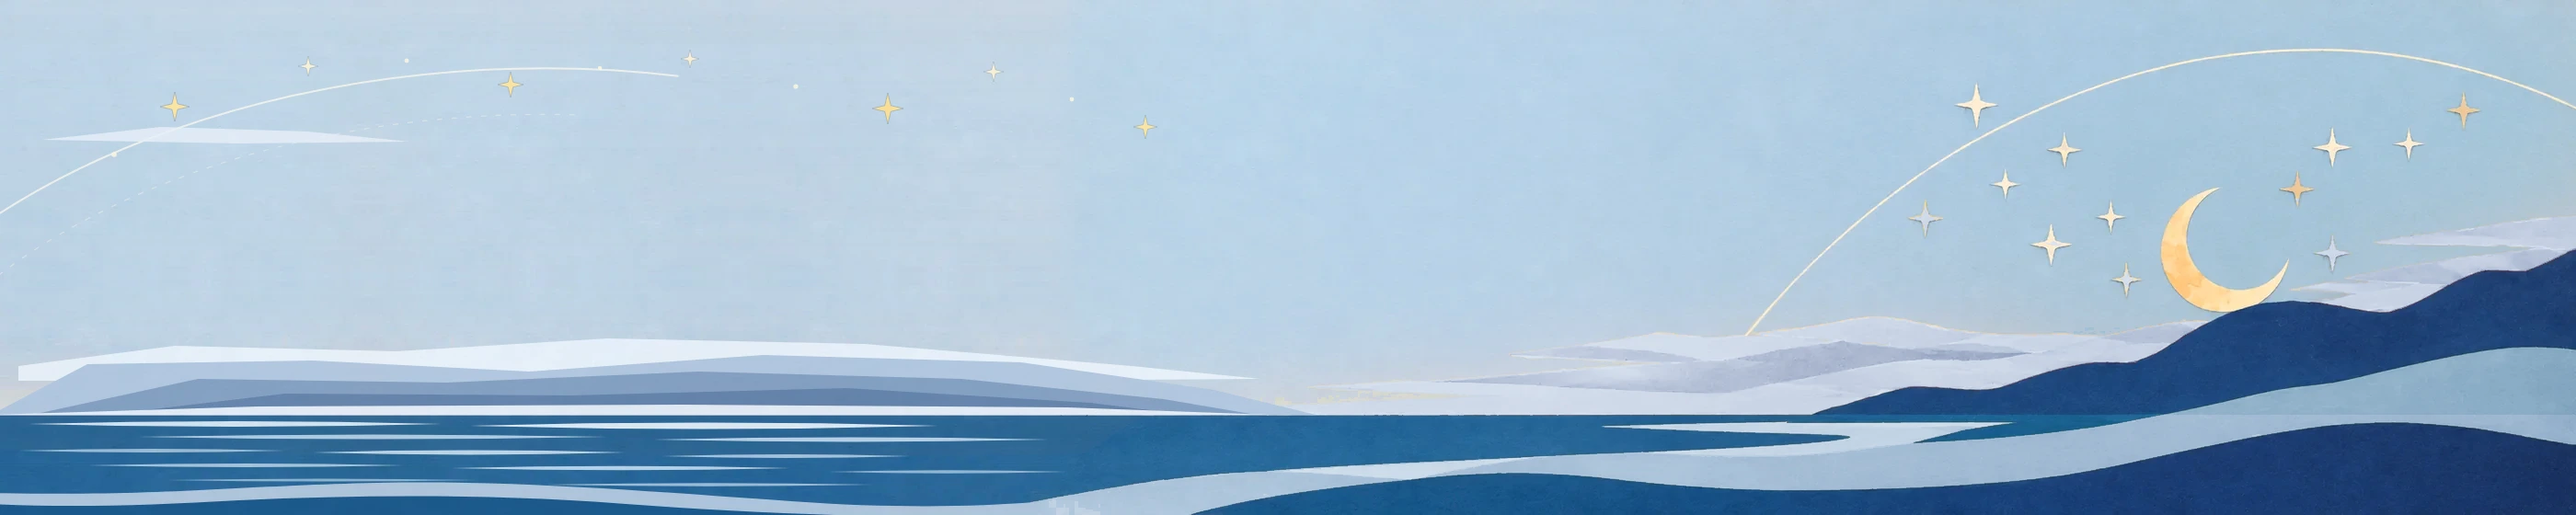
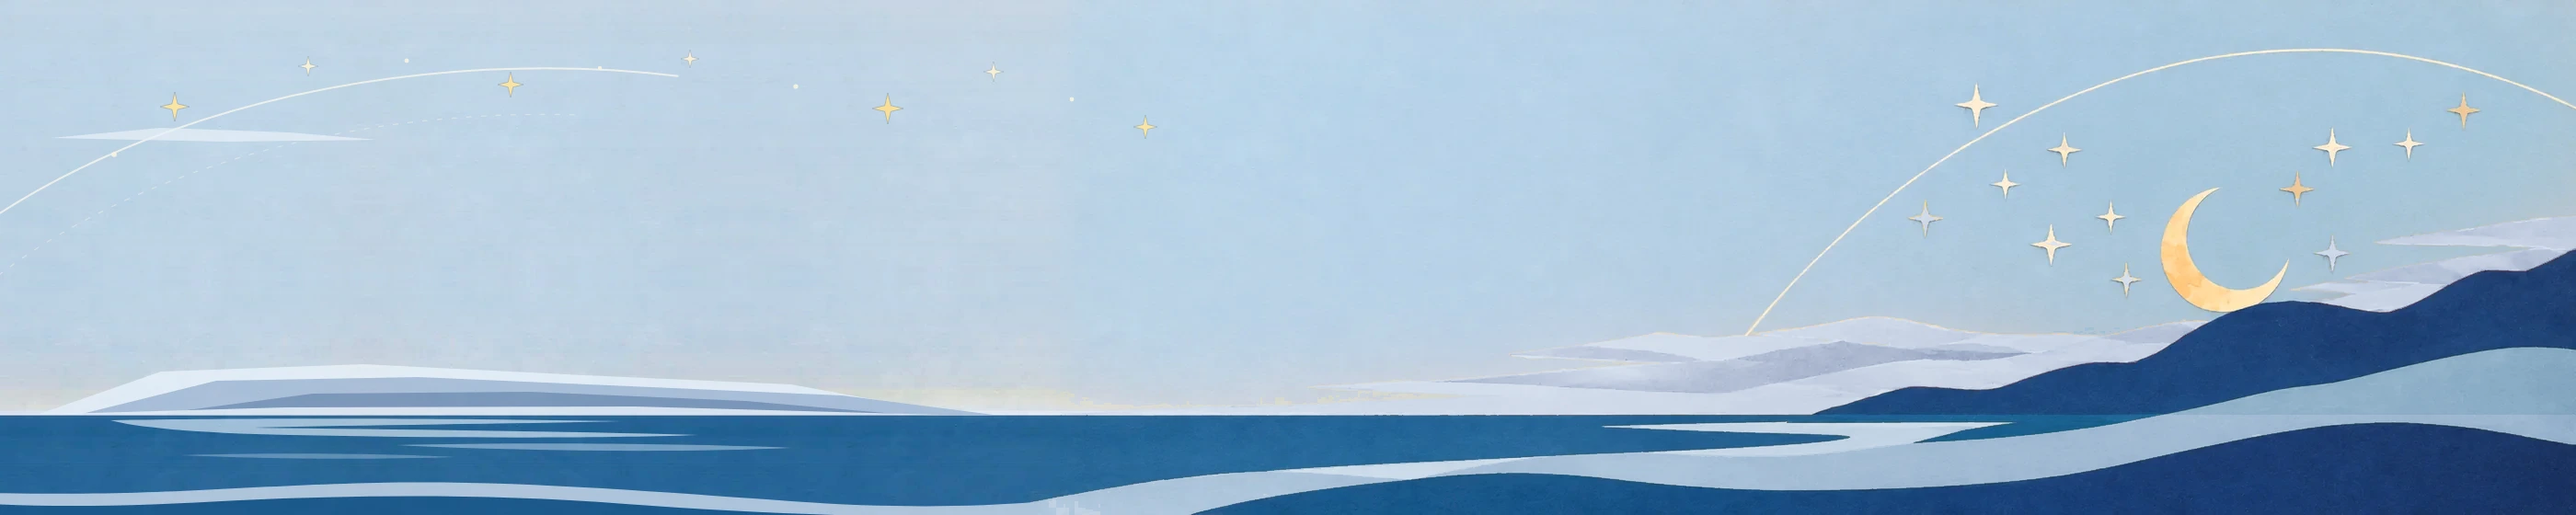
style(trend): 改用非对称纸艺月光水带统一星潮横幅波光风格

Changed region(s): [[0.0, 0.6375, 0.5282, 0.9714]]

diff --git a/docs/dev-log/v1.0-dev.15.md b/docs/dev-log/v1.0-dev.15.md
@@ -27,7 +27,7 @@
 - **资源与样式**：将 `polyhouse-web/src/assets/startide-tide-atlas.webp` 由 `1680×560`（3:1）向左无缝延展为 `2800×560`（5:1，约 `66.3 KB`），右侧 1680×560 逐像素保留原画星月山海与潮带，左侧 1120×560 延续原画浅青天空、纸张肌理与平缓舒展的薄荷绿潮带/深海浪；`TrendView.vue` 移除 `.cover::before` 伪元素，改为单图 `object-fit: cover; object-position: right bottom`，同时自然兼容锚定右侧的 `TrendOwnerView.vue`。
 - **实际验证**：`npm run build`、`npm run lint:check`、`npm test`（356/356）与 `TrendView.vue` Prettier 检查通过；浏览器实测 `#/trend` 在 `1440×900`、`1000×800`、`620×800`、`375×812`、`320×640` 下均无横向溢出，左侧海天自然延展、无镜像接缝，窄屏仍完整保留右侧星月山海。`TrendOwnerView.vue`（需屋主登录）仅核对样式锚定规则，未登录实看。
 
-- **清浅月夜二次精修（2026-11-23）**：用户预览后反馈左侧略单调且原图橘粉晚霞与月夜违和；在保留淡金弯月与星辰的前提下，整体重调为清浅月夜雾蓝、银蓝夜云与夜靛蓝月光海潮，并在左侧补入清晰星图细弧、散落微星、四层横向纸艺夜云（含左上高空轻云）与高亮月光水面波纹（`2800×560`）；同步将 `TrendView.vue` 与 `TrendOwnerView.vue` 的占位/遮罩底色由 `#d7e7e4` 调为 `#cadbe8`。重跑 `npm run build`、`npm run lint:check`、`npm test`（356/356）与 Prettier 检查通过（尺寸与布局同上轮已验基线，未另起浏览器复看）。
+- **清浅月夜精修定稿（2026-11-23）**：用户预览后反馈左侧略单调且原图橘粉晚霞与月夜违和；在保留淡金弯月与星辰的前提下，整体重调为清浅月夜雾蓝、银蓝夜云与夜靛蓝月光海潮，左侧补入清晰星图细弧、散落微星、三层低矮横向纸艺夜云（含左上高空轻云）及与右侧海湾同画风的非对称月光水带（`2800×560`）；同步将 `TrendView.vue` 与 `TrendOwnerView.vue` 的占位/遮罩底色由 `#d7e7e4` 调为 `#cadbe8`。重跑 `npm run build`、`npm run lint:check`、`npm test`（356/356）与 Prettier 检查通过（尺寸与布局同上轮已验基线，未另起浏览器复看）。
 
 ## 前端精修 F2 工作台页头减重
 
